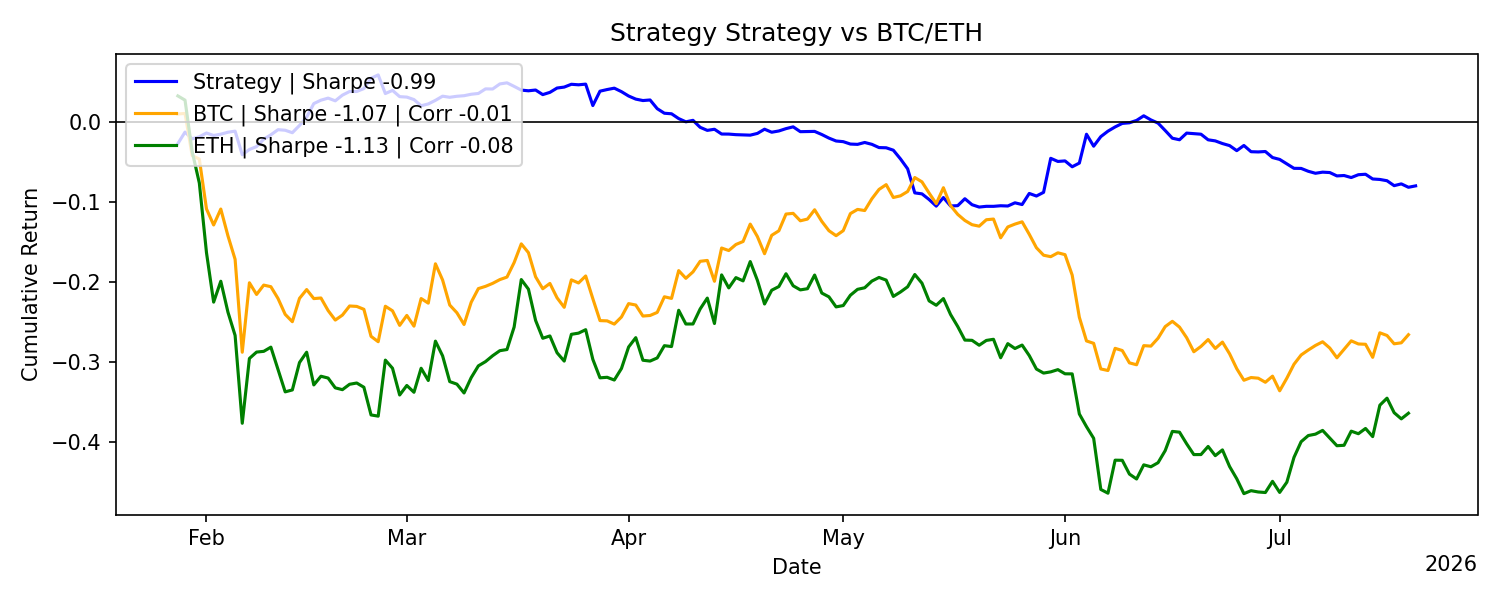
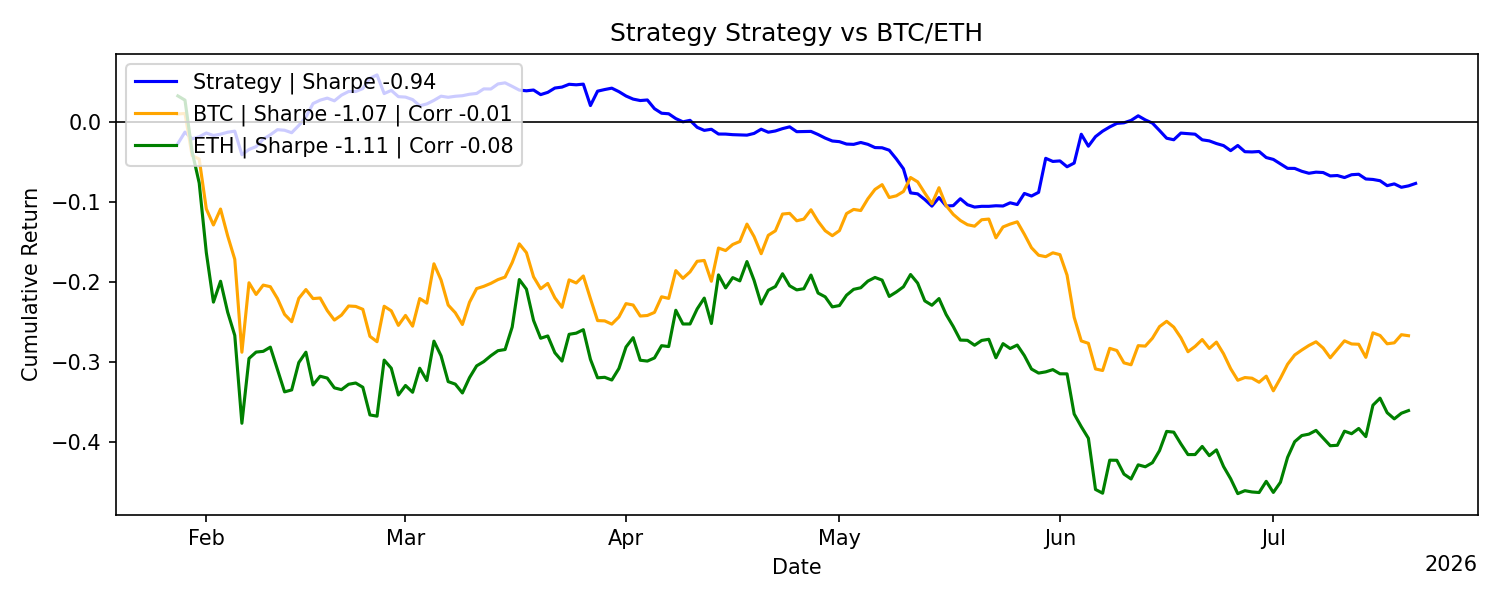
Update reports: 2026-07-21 00:02:32 UTC

diff --git a/README.md b/README.md
@@ -24,26 +24,26 @@ All results are live and reported net of transaction costs and slippage.
 <!-- METRICS_START -->
 | metric                       |        values |
 |:-----------------------------|--------------:|
-| Number of Observations       | 174           |
-| Mean Daily Return            |  -0.000441577 |
-| Daily Volatility             |   0.00855705  |
-| Mean Annualized Return       |  -0.161175    |
-| Annualized Volatility        |   0.163482    |
+| Number of Observations       | 175           |
+| Mean Daily Return            |  -0.000419995 |
+| Daily Volatility             |   0.0085372   |
+| Mean Annualized Return       |  -0.153298    |
+| Annualized Volatility        |   0.163103    |
 | Maximum Drawdown             |  -0.156146    |
-| Max Drawdown Duration (Days) | 145           |
-| Sharpe                       |  -0.98589     |
-| Sortino                      |  -1.35979     |
-| Calmar                       |  -1.03221     |
-| CAGR                         |  -0.16009     |
-| Skewness                     |   0.719865    |
-| Excess Kurtosis              |   8.79022     |
-| Win Rate                     |   0.465517    |
-| Profit Factor                |   0.847959    |
-| VaR 1%                       |  -0.0276759   |
+| Max Drawdown Duration (Days) | 146           |
+| Sharpe                       |  -0.939886    |
+| Sortino                      |  -1.29333     |
+| Calmar                       |  -0.981762    |
+| CAGR                         |  -0.153393    |
+| Skewness                     |   0.713516    |
+| Excess Kurtosis              |   8.8228      |
+| Win Rate                     |   0.468571    |
+| Profit Factor                |   0.854558    |
+| VaR 1%                       |  -0.0276462   |
 | CVaR 1%                      |  -0.030925    |
-| VaR 5%                       |  -0.0108476   |
+| VaR 5%                       |  -0.0108103   |
 | CVaR 5%                      |  -0.0208176   |
-| Correlation with BTC         |  -0.00933957  |
+| Correlation with BTC         |  -0.0093546   |
 <!-- METRICS_END -->
 
 ## Sharpe Statistics
@@ -55,14 +55,14 @@ All results are live and reported net of transaction costs and slippage.
 | metric                     |   values |
 |:---------------------------|---------:|
 | alpha                      |   0.05   |
-| t-statistic                |  -0.6807 |
-| p-value                    |   0.497  |
-| Daily Sharpe Ratio         |  -0.0516 |
-| Annualized Sharpe Ratio    |  -0.9859 |
-| Sharpe Standard Error      |   1.4844 |
-| C.I. Lower Bound           |  -3.8952 |
-| C.I. Upper Bound           |   1.9234 |
-| Bootstrap C.I. Lower Bound |  -4.4201 |
-| Bootstrap C.I. Upper Bound |   2.8496 |
+| t-statistic                |  -0.6508 |
+| p-value                    |   0.516  |
+| Daily Sharpe Ratio         |  -0.0492 |
+| Annualized Sharpe Ratio    |  -0.9399 |
+| Sharpe Standard Error      |   1.4782 |
+| C.I. Lower Bound           |  -3.8371 |
+| C.I. Upper Bound           |   1.9573 |
+| Bootstrap C.I. Lower Bound |  -4.3569 |
+| Bootstrap C.I. Upper Bound |   2.8967 |
 <!-- SHARPE_END -->
 
